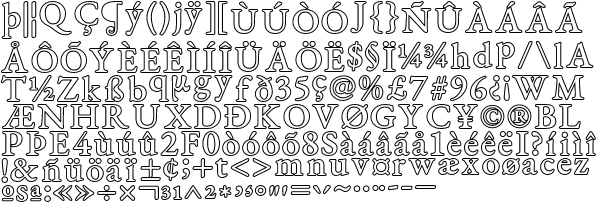
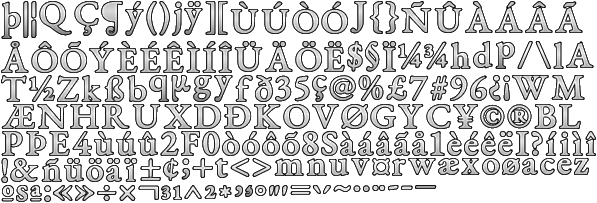
Style the area name font. Color with gradient map.

diff --git a/tools/fontspread.c b/tools/fontspread.c
@@ -1,0 +1,209 @@
+/*
+	fontspread.c : Spread font atlas texture from font texture generator
+	into a linear texture with all characters one after another, or reverse
+	the process. This allows applying effects such as gradients with ease.
+	(https://evanw.github.io/font-texture-generator/)
+
+	Copyright (c) 2022 Marisa the Magician, UnSX Team
+
+	Permission is hereby granted, free of charge, to any person obtaining
+	a copy of this software and associated documentation files (the
+	"Software"), to deal in the Software without restriction, including
+	without limitation the rights to use, copy, modify, merge, publish,
+	distribute, sublicense, and/or sell copies of the Software, and to
+	permit persons to whom the Software is furnished to do so, subject to
+	the following conditions:
+
+	The above copyright notice and this permission notice shall be
+	included in all copies or substantial portions of the Software.
+
+	THE SOFTWARE IS PROVIDED "AS IS", WITHOUT WARRANTY OF ANY KIND,
+	EXPRESS OR IMPLIED, INCLUDING BUT NOT LIMITED TO THE WARRANTIES OF
+	MERCHANTABILITY, FITNESS FOR A PARTICULAR PURPOSE AND NONINFRINGEMENT.
+	IN NO EVENT SHALL THE AUTHORS OR COPYRIGHT HOLDERS BE LIABLE FOR ANY
+	CLAIM, DAMAGES OR OTHER LIABILITY, WHETHER IN AN ACTION OF CONTRACT,
+	TORT OR OTHERWISE, ARISING FROM, OUT OF OR IN CONNECTION WITH THE
+	SOFTWARE OR THE USE OR OTHER DEALINGS IN THE SOFTWARE.
+*/
+#include <stdio.h>
+#include <errno.h>
+#include <string.h>
+#include <stdint.h>
+#include <stdlib.h>
+#include <math.h>
+#include <jansson.h>
+
+// TODO: use PNGs instead of goddamn raw RGBA8 image data
+
+typedef struct
+{
+	int x, y, width, height, xofs, yofs, advance;
+} glyph_t;
+
+uint32_t getpixel( uint32_t *buf, int bw, int bh, int x, int y )
+{
+	if ( (x < 0) || (x >= bw) || (y < 0) || (y >= bh) )
+		return 0;
+	return buf[x+y*bw];
+}
+
+void putpixel( uint32_t px, uint32_t *buf, int bw, int bh, int x, int y )
+{
+	if ( (x < 0) || (x >= bw) || (y < 0) || (y >= bh) )
+		return;
+	buf[x+y*bw] = px;
+}
+
+int main( int argc, char **argv )
+{
+	int rev = 0;
+	int barg = 1;
+	if ( (argc > 1) && !strcmp(argv[1],"-i") )
+	{
+		rev = 1;
+		barg++;
+	}
+	if ( argc < barg+3 )
+	{
+		fprintf(stderr,"usage: fontspread [-i] <data.json> <atlas.data> <texture.data>\n");
+		return 0;
+	}
+	glyph_t glyphs[256] = {{0}};
+	json_error_t error;
+	json_t *root = json_load_file(argv[barg],0,&error);
+	if ( !root )
+	{
+		fprintf(stderr,"fontspread: parse error at line %d: %s\n",
+			error.line,error.text);
+		return 1;
+	}
+	json_t *fontheight = json_object_get(root,"size");
+	int fonth = json_integer_value(fontheight);
+	json_t *atlaswidth = json_object_get(root,"width");
+	int atlasw = json_integer_value(atlaswidth);
+	json_t *atlasheight = json_object_get(root,"height");
+	int atlash = json_integer_value(atlasheight);
+	json_t *chars = json_object_get(root,"characters");
+	const char *key;
+	json_t *val;
+	json_object_foreach(chars,key,val)
+	{
+		int ch = 0;
+		if ( key[1] )
+		{
+			ch = (key[0]&0b00011111)<<6;
+			ch |= key[1]&0b00111111;
+		}
+		else ch = key[0];
+		json_t *go = json_object_get(val,"x");
+		glyphs[ch].x = json_integer_value(go);
+		go = json_object_get(val,"y");
+		glyphs[ch].y = json_integer_value(go);
+		go = json_object_get(val,"width");
+		glyphs[ch].width = json_integer_value(go);
+		go = json_object_get(val,"height");
+		glyphs[ch].height = json_integer_value(go);
+		go = json_object_get(val,"originX");
+		glyphs[ch].xofs = json_integer_value(go);
+		go = json_object_get(val,"originY");
+		glyphs[ch].yofs = json_integer_value(go);
+		go = json_object_get(val,"advance");
+		glyphs[ch].advance = json_integer_value(go);
+	}
+	json_decref(root);
+	int iw = 0, ih = fonth, xx = 0;
+	for ( int i=0; i<256; i++ )
+	{
+		int yy = fonth-glyphs[i].yofs;
+		if ( yy+glyphs[i].height > ih ) ih = yy+glyphs[i].height;
+		xx += glyphs[i].width;
+		iw = xx;
+	}
+	printf("Estimated texture dimensions: %dx%d\n",iw,ih);
+	if ( rev )
+	{
+		FILE *f = fopen(argv[barg+2],"rb");
+		if ( !f )
+		{
+			fprintf(stderr,"fontspread: failed to open texture: %s\n",strerror(errno));
+			return 2;
+		}
+		uint32_t *tdata = calloc(iw*ih,sizeof(uint32_t));
+		int got = fread(tdata,sizeof(uint32_t),iw*ih,f);
+		if ( got < (iw*ih) )
+		{
+			fprintf(stderr,"fontspread: size mismatch in texture, should be %d, got %d\n",iw*ih,got);
+			free(tdata);
+			fclose(f);
+			return 4;
+		}
+		fclose(f);
+		uint32_t *adata = calloc(atlasw*atlash,sizeof(uint32_t));
+		xx = 0;
+		for ( int i=0; i<256; i++ )
+		{
+			int yy = fonth-glyphs[i].yofs;
+			for ( int y=0; y<glyphs[i].height; y++ ) for ( int x=0; x<glyphs[i].width; x++ )
+			{
+				uint32_t px = getpixel(tdata,iw,ih,xx+x,yy+y);
+				putpixel(px,adata,atlasw,atlash,glyphs[i].x+x,glyphs[i].y+y);
+			}
+			xx += glyphs[i].width;
+		}
+		free(tdata);
+		f = fopen(argv[barg+1],"wb");
+		if ( !f )
+		{
+			fprintf(stderr,"fontspread: failed to open atlas: %s\n",strerror(errno));
+			free(adata);
+			return 8;
+		}
+		fwrite(adata,sizeof(uint32_t),atlasw*atlash,f);
+		free(adata);
+		fclose(f);
+		return 0;
+	}
+	else
+	{
+		FILE *f = fopen(argv[barg+1],"rb");
+		if ( !f )
+		{
+			fprintf(stderr,"fontspread: failed to open atlas: %s\n",strerror(errno));
+			return 2;
+		}
+		uint32_t *adata = calloc(atlasw*atlash,sizeof(uint32_t));
+		int got = fread(adata,sizeof(uint32_t),atlasw*atlash,f);
+		if ( got < (atlasw*atlash) )
+		{
+			fprintf(stderr,"fontspread: size mismatch in atlas, should be %d, got %d\n",atlasw*atlash,got);
+			free(adata);
+			fclose(f);
+			return 4;
+		}
+		fclose(f);
+		uint32_t *tdata = calloc(iw*ih,sizeof(uint32_t));
+		xx = 0;
+		for ( int i=0; i<256; i++ )
+		{
+			int yy = fonth-glyphs[i].yofs;
+			for ( int y=0; y<glyphs[i].height; y++ ) for ( int x=0; x<glyphs[i].width; x++ )
+			{
+				uint32_t px = getpixel(adata,atlasw,atlash,glyphs[i].x+x,glyphs[i].y+y);
+				putpixel(px,tdata,iw,ih,xx+x,yy+y);
+			}
+			xx += glyphs[i].width;
+		}
+		free(adata);
+		f = fopen(argv[barg+2],"wb");
+		if ( !f )
+		{
+			fprintf(stderr,"fontspread: failed to open texture: %s\n",strerror(errno));
+			free(tdata);
+			return 8;
+		}
+		fwrite(tdata,sizeof(uint32_t),iw*ih,f);
+		free(tdata);
+		fclose(f);
+	}
+	return 0;
+}
